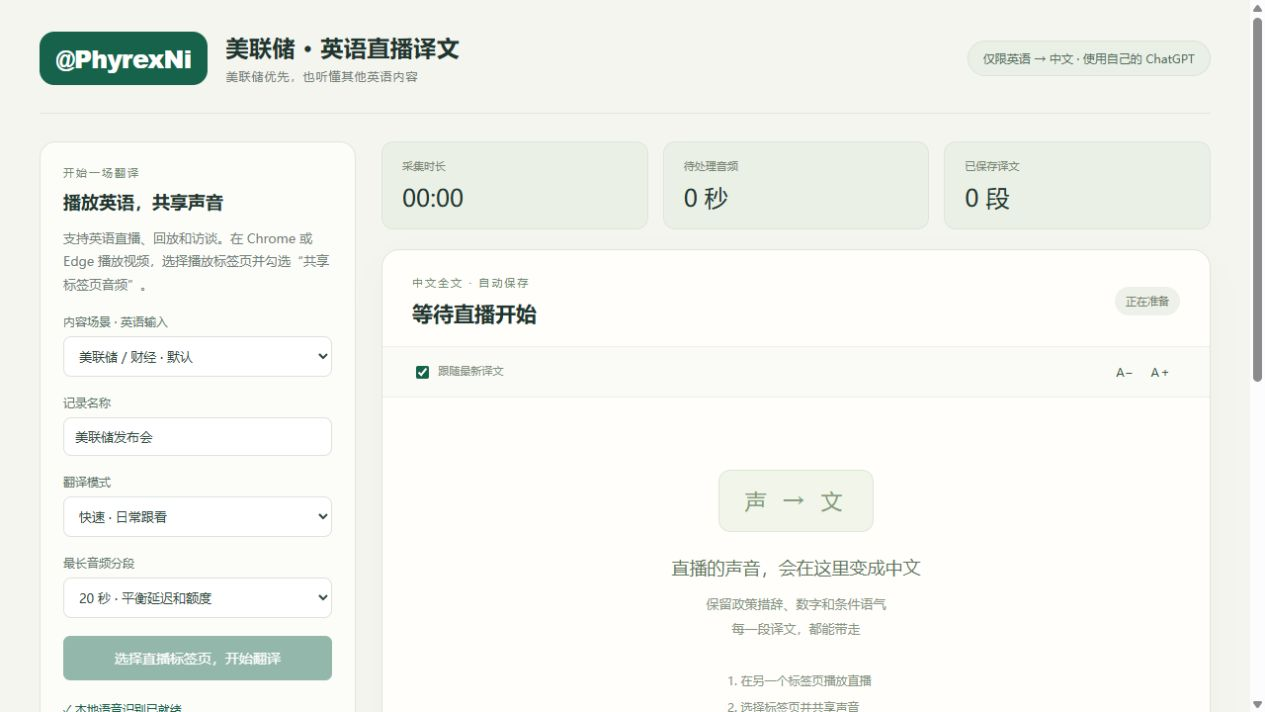
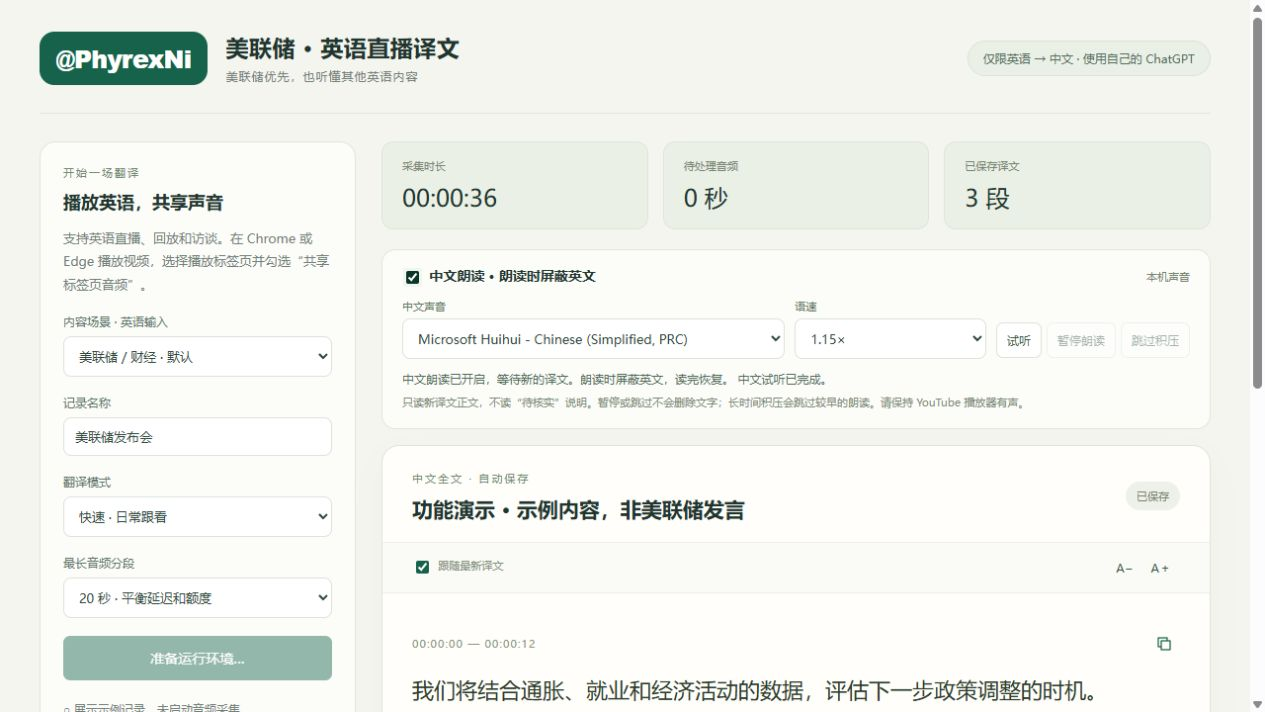
Publish 0.2.5 Chinese narration downloads, update guide and interface preview

diff --git a/docs/index.html b/docs/index.html
@@ -1,12 +1,14 @@
 <!doctype html>
 <html lang="zh-CN">
-<head><meta charset="utf-8"><meta name="viewport" content="width=device-width,initial-scale=1"><meta name="description" content="@PhyrexNi 美联储英语直播译文公开测试版：英语视频转中文，专业术语、逐段复制与文本导出。"><title>@PhyrexNi · 英语直播译文下载</title><link rel="stylesheet" href="style.css"><link rel="icon" href="mark.svg" type="image/svg+xml"></head>
+<head><meta charset="utf-8"><meta name="viewport" content="width=device-width,initial-scale=1"><meta name="description" content="@PhyrexNi 美联储英语直播译文公开测试版：英语视频转中文，专业术语、中文朗读、逐段复制与文本导出。"><title>@PhyrexNi · 英语直播译文下载</title><link rel="stylesheet" href="style.css"><link rel="icon" href="mark.svg" type="image/svg+xml"></head>
 <body><main>
 <header><a class="wordmark" href="./">@PhyrexNi</a><nav aria-label="导航"><a href="#install">安装说明</a><a href="privacy.html">隐私说明</a><a href="https://github.com/nisen0808-web/phyrex-english-translator/issues">测试反馈 ↗</a></nav></header>
-<section class="hero"><div class="eyebrow">WINDOWS + MAC · GITHUB 公开测试</div><h1>听英语直播，<br>看中文译文。</h1><p class="lead">美联储优先，也支持其他英语直播、回放和访谈。<br>用自己的 ChatGPT 账号，在本机保存中文记录。</p><div class="actions"><a class="primary" href="https://github.com/nisen0808-web/phyrex-english-translator/releases/download/v0.2.2-beta/Fed-English-Translator-0.2.2-beta-Windows-x64-Compact.7z">下载 Windows 测试包 <span>581 MB · 7z ↓</span></a><a class="primary" href="https://github.com/nisen0808-web/phyrex-english-translator/releases/download/v0.2.3-mac-beta/Fed-English-Translator-0.2.3-mac-beta-macOS-arm64.zip">下载 Mac · Apple 芯片 <span>M 系列 · ZIP ↓</span></a><a class="primary" href="https://github.com/nisen0808-web/phyrex-english-translator/releases/download/v0.2.3-mac-beta/Fed-English-Translator-0.2.3-mac-beta-macOS-x86_64.zip">下载 Mac · Intel <span>ZIP ↓</span></a></div><p class="requirements">Windows 10 / 11 x64，或 macOS 14+ · Chrome / Edge · 仅英语 → 中文<br>Mac 芯片可在苹果菜单“关于本机”查看。完整包内含本机组件，使用自己的 ChatGPT。尚未上架扩展商店。</p></section>
-<section class="features" aria-label="主要功能"><article><b>556</b><h2>专业术语</h2><p>覆盖美联储、宏观、金融、通胀和劳动力市场，可自行补充。</p></article><article><b>中文</b><h2>逐段复制</h2><p>每段单独复制译文，自动排除时间戳和“待核实”说明。</p></article><article><b>TXT / Word / SRT</b><h2>保存与导出</h2><p>中文记录自动保存在本机，可导出文稿和字幕。</p></article></section>
-<figure><img src="preview.png" alt="美联储英语直播译文测试版界面：左侧选择场景与翻译模式，右侧显示中文译文" width="1265" height="712"><figcaption>完整页面预览 · 也可从浏览器侧栏打开</figcaption></figure>
+<section class="hero"><div class="eyebrow">WINDOWS + MAC · GITHUB 公开测试</div><h1>听英语直播，<br>听中文译文。</h1><p class="lead">美联储优先，也支持其他英语直播、回放和访谈。<br>用自己的 ChatGPT 账号翻译，中文朗读时屏蔽英文外放。</p><div class="actions"><a class="primary" href="https://github.com/nisen0808-web/phyrex-english-translator/releases/download/v0.2.5-beta/Fed-English-Translator-0.2.5-beta-Windows-x64-Compact.7z">下载 Windows 测试包 <span>0.2.5 · 7z ↓</span></a><a class="primary" href="https://github.com/nisen0808-web/phyrex-english-translator/releases/download/v0.2.5-beta/Fed-English-Translator-0.2.5-beta-macOS-arm64.zip">下载 Mac · Apple 芯片 <span>0.2.5 · M 系列 ↓</span></a><a class="primary" href="https://github.com/nisen0808-web/phyrex-english-translator/releases/download/v0.2.5-beta/Fed-English-Translator-0.2.5-beta-macOS-x86_64.zip">下载 Mac · Intel <span>ZIP ↓</span></a></div><p class="requirements">Windows 10 / 11 x64，或 macOS 14+ · Chrome / Edge · 仅英语 → 中文<br>Mac 芯片可在苹果菜单“关于本机”查看。完整包内含本机组件，使用自己的 ChatGPT。尚未上架扩展商店。</p></section>
+<section class="features" aria-label="主要功能"><article><b>556</b><h2>专业术语</h2><p>覆盖美联储、宏观、金融、通胀和劳动力市场，可自行补充。</p></article><article><b>中文朗读</b><h2>读中文，暂时屏蔽英文</h2><p>本机中文声音，可调语速、暂停和跳过。每段仍可独立复制。</p></article><article><b>TXT / Word / SRT</b><h2>保存与导出</h2><p>中文记录自动保存在本机，可导出文稿和字幕。</p></article></section>
+<figure><img src="preview.png" alt="中文朗读功能演示：选择本机中文声音、语速、试听，右侧显示示例译文" width="1265" height="712"><figcaption>中文朗读界面预览 · 文中为功能演示示例，非美联储发言</figcaption></figure>
+<aside class="tip"><strong>已经安装旧版？约 20 KB 即可更新朗读</strong><p><a href="https://github.com/nisen0808-web/phyrex-english-translator/releases/download/v0.2.5-beta/PhyrexNi-Read-Aloud-0.2.5-Windows-Update.zip">Windows 0.2.2 更新包</a> · <a href="https://github.com/nisen0808-web/phyrex-english-translator/releases/download/v0.2.5-beta/PhyrexNi-Read-Aloud-0.2.5-Mac-Update.zip">Mac 0.2.3 更新包</a>。不能单独运行。结束采集并关闭页面，备份原 web 文件夹和 PRIVACY.md，再按包内说明替换；不改账号、记录和模型。</p></aside>
 <section id="install" class="section"><div class="eyebrow">首次使用</div><h2>安装一次，之后从扩展打开。</h2><ol class="steps"><li><strong>下载并完整解压</strong><p>Windows 使用支持 7z 的工具，例如 <a href="https://www.7-zip.org/">7-Zip</a>；Mac 双击 ZIP 解压。将整个目录放到固定位置，不要直接在压缩包里运行。</p></li><li><strong>连接本机组件</strong><p>Windows 双击 <code>Install-Connector.cmd</code>；Mac 双击 <code>Install-Connector.command</code>。只为当前用户注册本机连接。</p></li><li><strong>加载浏览器扩展</strong><p>Chrome 地址栏输入 <code>chrome://extensions</code>；Edge 输入 <code>edge://extensions</code>。打开“开发者模式”，选择“加载已解压的扩展程序”，选中解压目录里的 <code>extension</code> 文件夹。</p></li><li><strong>登录自己的 ChatGPT</strong><p>固定扩展并打开侧栏，点击登录，在 OpenAI 官方页面完成。模型权限和用量取决于你的账号。</p></li><li><strong>播放英语，共享标签页声音</strong><p>选择正在播放视频的标签页，并勾选“共享标签页音频”。结束时点“结束采集并保存”，等待译文完成后导出。</p></li></ol><aside class="tip"><strong>侧栏无法共享声音？</strong><p>点击“完整页面”，或运行 Windows 的 <code>Start.cmd</code> / Mac 的 <code>Start.command</code>。翻译期间保持采集页面打开。</p></aside><aside class="tip"><strong>Mac 首次打开</strong><p>Mac 包尚未经过 Apple 公证；如出现开发者验证提示，请核对来源并参阅 <a href="https://support.apple.com/102445">Apple 官方说明</a>，不要关闭系统安全防护。若系统请求录屏或音频权限，请为正在使用的浏览器授权。<a href="https://github.com/nisen0808-web/phyrex-english-translator/blob/main/mac/app/先读我-Mac.md">完整 Mac 安装说明 ↗</a></p></aside></section>
-<section class="section"><div class="eyebrow">测试前了解</div><h2>本轮重点：安装、连接和连续翻译。</h2><p>Windows 包已做文件核对和本地识别检查。Mac 包分别在 Apple 芯片和 Intel 的原生环境中完成组件运行、合成英语识别、账号隔离和重新解压后的检查。不同电脑的浏览器安装、系统授权、首次登录和长时间真实直播仍需试用反馈。</p><p>译文有分段等待，数字和政策措辞可能存在识别错误。标记“待核实”的内容请结合原音判断。声音在本机识别，识别后的英文与相关上下文会发送给 OpenAI 翻译。</p><a href="https://github.com/nisen0808-web/phyrex-english-translator/blob/main/VERIFICATION.md">查看完整验证范围 ↗</a><details><summary>版本附件与 SHA-256 校验</summary><p><a href="https://github.com/nisen0808-web/phyrex-english-translator/releases/tag/v0.2.2-beta">Windows 版本附件</a> · <a href="https://github.com/nisen0808-web/phyrex-english-translator/releases/tag/v0.2.3-mac-beta">Mac 版本附件与校验值</a>。请下载完整测试包；“Source code”不包含运行组件与语音模型。下方为 Windows 包的校验值。</p><code class="hash">24b3c081b4fb9e01a7006493429c02193f4aeb9ade939901592e2be13b775725</code></details></section>
+<section class="section"><div class="eyebrow">可选功能 · 默认关闭</div><h2>先试听，再开始中文朗读。</h2><ol class="steps"><li><strong>采集前勾选中文朗读</strong><p>选择本机中文声音和语速，点击试听。没有中文声音时，可先安装系统中文语音；文字翻译仍可使用。</p></li><li><strong>保持 YouTube 音量开启</strong><p>共享播放标签页的音频。中文朗读时屏蔽英文外放，读完或暂停后恢复，英文识别继续进行。</p></li><li><strong>只读新的中文正文</strong><p>不读时间戳、核实说明或历史记录。积压过多会跳过较早的朗读，文字仍保留。朗读使用本机语音，不增加配音 API 或 Codex 请求。</p></li></ol><p>中文需要等待识别与翻译，不是零延迟同传。不同浏览器和系统声音表现仍需公开测试。</p></section>
+<section class="section"><div class="eyebrow">测试前了解</div><h2>本轮重点：中文声音与直播衔接。</h2><p>Windows 包已做文件核对和本地识别检查。Mac 包分别在 Apple 芯片和 Intel 的原生环境中完成组件运行、合成英语识别、账号隔离和重新解压后的检查。新增朗读逻辑有 13 项自动检查，Windows 浏览器试听与音轨分离已检查；Mac 浏览器朗读、不同系统中文声音、音频共享及长时间真实直播仍需试用反馈。</p><p>译文有分段等待，数字和政策措辞可能存在识别错误。标记“待核实”的内容请结合原音判断。声音在本机识别，识别后的英文与相关上下文会发送给 OpenAI 翻译。</p><a href="https://github.com/nisen0808-web/phyrex-english-translator/blob/main/VERIFICATION.md">查看完整验证范围 ↗</a><details><summary>版本附件与 SHA-256 校验</summary><p><a href="https://github.com/nisen0808-web/phyrex-english-translator/releases/tag/v0.2.5-beta">0.2.5-beta 全部下载、检查结果与 SHA-256</a>。请下载完整测试包；已有旧版可选轻量更新。Source code 不包含运行组件与语音模型。旧版本仍保留在 Releases 中。</p></details></section>
 <footer><span>@PhyrexNi · 英语直播译文</span><a href="privacy.html">隐私与数据处理</a><a href="https://github.com/nisen0808-web/phyrex-english-translator">GitHub 项目 ↗</a></footer>
 </main></body></html>

diff --git a/README.md b/README.md
@@ -2,80 +2,90 @@
 
 把英语直播、回放和访谈翻译成中文。优先支持美联储与宏观财经内容，也可选择通用英语场景。
 
-**Windows 10/11 x64（0.2.2-beta）与 macOS 14+（0.2.3-mac-beta） · Chrome / Edge · 仅英语 → 中文**
+**0.2.5-beta · Windows 10/11 x64 / macOS 14+ · Chrome / Edge · 仅英语 → 中文**
+
+新增可选中文朗读：中文播放时屏蔽英文外放，读完恢复。识别用的英文音轨继续采集，中文文字照常保存。
 
 ## 下载
 
-[**下载 Windows 完整测试包 · 581 MB（7z）**](https://github.com/nisen0808-web/phyrex-english-translator/releases/download/v0.2.2-beta/Fed-English-Translator-0.2.2-beta-Windows-x64-Compact.7z)
+- [Windows 完整包 · 7z](https://github.com/nisen0808-web/phyrex-english-translator/releases/download/v0.2.5-beta/Fed-English-Translator-0.2.5-beta-Windows-x64-Compact.7z)
+- [Mac 完整包 · Apple 芯片（M 系列）](https://github.com/nisen0808-web/phyrex-english-translator/releases/download/v0.2.5-beta/Fed-English-Translator-0.2.5-beta-macOS-arm64.zip)
+- [Mac 完整包 · Intel](https://github.com/nisen0808-web/phyrex-english-translator/releases/download/v0.2.5-beta/Fed-English-Translator-0.2.5-beta-macOS-x86_64.zip)
 
-[**下载 Mac · Apple 芯片（M 系列）· ZIP**](https://github.com/nisen0808-web/phyrex-english-translator/releases/download/v0.2.3-mac-beta/Fed-English-Translator-0.2.3-mac-beta-macOS-arm64.zip)
+已安装 Windows 0.2.2-beta / Mac 0.2.3-mac-beta 的用户可选择约 **20 KB** 的轻量更新，无需重新下载语音模型：
 
-[**下载 Mac · Intel · ZIP**](https://github.com/nisen0808-web/phyrex-english-translator/releases/download/v0.2.3-mac-beta/Fed-English-Translator-0.2.3-mac-beta-macOS-x86_64.zip)
+- [Windows 中文朗读更新包](https://github.com/nisen0808-web/phyrex-english-translator/releases/download/v0.2.5-beta/PhyrexNi-Read-Aloud-0.2.5-Windows-Update.zip)
+- [Mac 中文朗读更新包](https://github.com/nisen0808-web/phyrex-english-translator/releases/download/v0.2.5-beta/PhyrexNi-Read-Aloud-0.2.5-Mac-Update.zip)
 
-[Mac 版本与校验值](https://github.com/nisen0808-web/phyrex-english-translator/releases/tag/v0.2.3-mac-beta) · [Windows 版本与全部附件](https://github.com/nisen0808-web/phyrex-english-translator/releases/tag/v0.2.2-beta) · [安装与下载页面](https://nisen0808-web.github.io/phyrex-english-translator/) · [隐私说明](docs/privacy.html)
+更新包不能单独运行。结束采集并关闭页面，备份原 `web` 文件夹和 `PRIVACY.md`，再按包内说明替换文件。不要删除 `user-data`；账号、记录、词库及语音模型仍保留。轻量更新后后台版本号仍显示原版本。
 
-请下载上面的完整测试包。GitHub 自动提供的 **Source code** 压缩包不包含语音模型与本机运行组件。
+[版本说明、完整附件与 SHA-256](https://github.com/nisen0808-web/phyrex-english-translator/releases/tag/v0.2.5-beta) · [安装与下载页面](https://nisen0808-web.github.io/phyrex-english-translator/) · [隐私说明](docs/privacy.html)
+
+首次使用请选择完整包。GitHub 自动提供的 **Source code** 不包含语音模型与本机运行组件。
 
 ## 首次使用
 
 ### Windows
 
-1. 使用支持 7z 的解压工具（例如 [7-Zip](https://www.7-zip.org/)），把**整个压缩包**解压到一个固定文件夹。
-2. 双击解压目录中的 `Install-Connector.cmd`，为当前 Windows 用户安装本机连接。
+1. 使用支持 7z 的解压工具（例如 [7-Zip](https://www.7-zip.org/)），把整个完整包解压到固定文件夹。
+2. 双击 `Install-Connector.cmd`，为当前 Windows 用户安装本机连接。
 3. 在 Chrome 打开 `chrome://extensions`，或在 Edge 打开 `edge://extensions`。
-4. 打开“开发者模式”，点击“加载已解压的扩展程序”，选择解压目录里的 **extension** 文件夹。
-5. 固定“PhyrexNi · 美联储英语直播译文”，点击扩展打开侧栏。首次使用需登录**自己的、支持 Codex 的 ChatGPT 账号**。
-6. 在另一个标签页播放英语视频，点击“选择直播标签页，开始翻译”，选中播放页面并勾选“共享标签页音频”。
+4. 打开“开发者模式”，点击“加载已解压的扩展程序”，选择包内的 **extension** 文件夹。
+5. 固定扩展，点击打开侧栏，登录自己的、支持 Codex 的 ChatGPT 账号。
+6. 播放英语视频，点击“选择直播标签页，开始翻译”，选择播放页面并勾选共享标签页音频。
 
-如果侧栏无法共享声音，请点击“完整页面”，或者双击解压目录中的 `Start.cmd`，在完整页面里选择视频标签页。
-
-翻译期间保持采集页面打开。结束时点“结束采集并保存”，等处理完成后导出。暂时不用时，可运行 `Stop.cmd`。
+侧栏无法共享声音时，点击“完整页面”，或运行 `Start.cmd`。翻译期间保持采集页面打开。结束时点“结束采集并保存”，等待文字处理完成后导出。用完可运行 `Stop.cmd`。
 
 ### Mac
 
 在苹果菜单“关于本机”查看芯片，下载对应的完整 ZIP，双击解压到固定文件夹。
 
 1. 双击 `Install-Connector.command`，为当前用户注册本机连接。
-2. Chrome / Edge 扩展管理页开启开发者模式，加载包内的 `extension` 文件夹。
+2. Chrome / Edge 扩展管理页开启开发者模式，加载包内的 **extension** 文件夹。
 3. 打开扩展并登录自己的 ChatGPT，然后选择播放英语视频的标签页并勾选共享音频。
 4. 侧栏无法采集时，点击“完整页面”或运行 `Start.command`；用完运行 `Stop.command`。
 
 Mac 包尚未经过 Apple 公证，首次打开可能出现开发者验证提示；请参阅 [Apple 官方说明](https://support.apple.com/102445)，不要关闭系统安全防护。系统要求录屏/音频权限时，请为正在使用的浏览器授权。[详细 Mac 安装说明](mac/app/先读我-Mac.md)
 
+## 开启中文朗读
+
+1. 在开始采集前勾选“中文朗读 · 朗读时屏蔽英文”。
+2. 选择本机中文声音和语速，点击“试听”。
+3. 保持 YouTube 音量开启，正常共享播放标签页的音频。
+
+只朗读本次采集的新中文正文，不读时间戳和“待核实”说明，也不重读历史记录。暂停朗读会恢复英文；继续后只读新译文。积压过多会跳过较早的朗读，文字不会删除。
+
+朗读使用本机中文语音，不增加配音 API 或 Codex 请求。未安装中文声音时，文字翻译仍可使用。中文存在分段、识别和翻译延迟，并非零延迟同传。[完整朗读说明](READ_ALOUD.md)
+
 ## 能做什么
 
 - 英语直播、回放、访谈和课程转中文；支持美联储 / 财经及通用英语两种场景。
 - 内置 **556 条**美联储、通胀、劳动力市场、增长、金融、流动性、银行信用及数据口径术语，可编辑至 1000 条。
-- 每一段有独立复制图标；带“待核实”的段落也能复制，复制内容不含时间戳和核实说明。
+- 每段有独立复制图标；带“待核实”的段落也能复制，只复制正文。
 - 中文记录自动保存在本机，支持 TXT、Word 和 SRT 导出。
+- 可选中文朗读、声音与语速选择、暂停及跳过；朗读时屏蔽英文外放。
 - 声音在本机识别，识别后的英文、短上下文与相关术语由官方 Codex 发送给 OpenAI 翻译，使用用户自己的账号额度。
 
-## 这轮测试的范围
+## 测试范围
 
-这是 **GitHub 公开测试版，尚未上架 Chrome / Edge 商店**。需要浏览器扩展配合本机组件，不能只装扩展。
+这是 GitHub 公开测试版，尚未上架 Chrome / Edge 商店。需要浏览器扩展配合本机组件。Grok 接入尚未发布。
 
-已经检查包内运行环境、本地语音模型、术语匹配、导出和新用户账号隔离。高压缩包解压后的 **3159 个文件与原始 ZIP 逐项一致**，并通过一段真实美联储音频的本地识别测试。
+三个系统完整包在发布流程中通过组件运行、独立账号、页面服务和重新解压检查，朗读逻辑有 13 项自动检查。Windows 浏览器本机试听与 Web Audio 音轨分离也已检查。真实 YouTube 长时间直播、用户电脑的中文声音、Mac 浏览器朗读与物理扬声器效果仍需试用。
 
-Mac 的两种芯片分别在原生 Mac 环境中做组件运行、合成英语识别、账号隔离和 ZIP 解压到新路径后的检查；这不等于完成真实直播测试。
-
-不同电脑上的完整扩展安装、首次 ChatGPT 登录，以及长时间真实直播采集仍需要本轮用户测试。翻译有分段和处理延迟，准确率并非保证；数字、否定语气和专有名词出现“待核实”时，请结合原音判断。[完整验证范围](VERIFICATION.md)
+数字、否定语气和专有名词出现“待核实”时，请结合原音判断。[完整验证范围](VERIFICATION.md)
 
 ## 反馈问题
 
-[提交测试反馈](https://github.com/nisen0808-web/phyrex-english-translator/issues/new?template=bug_report.yml)。请说明 Windows / macOS 版本、Mac 芯片类型与浏览器版本、操作步骤、错误文字和大致发生时间。可选填公开视频链接与时间位置。
+[提交测试反馈](https://github.com/nisen0808-web/phyrex-english-translator/issues/new?template=bug_report.yml)。请说明操作系统、Mac 芯片类型、浏览器版本、所选中文声音、操作步骤和错误文字。可选填公开视频链接与时间位置。
 
-不要在公开反馈里附带登录凭据、Cookie、API 密钥、整个 `user-data` 文件夹或未经处理的私人内容。
+不要公开登录凭据、Cookie、API 密钥、整个 `user-data` 文件夹或未经处理的私人内容。
 
-## 记录与卸载
+## 升级、记录与卸载
 
-中文记录和自定义术语位于解压目录的 `user-data`，官方 Codex 登录凭据位于 `user-data/account`。本工具不持久保存原始音频或英语逐字稿。
+完整包升级：先结束翻译并停止旧组件，把新版解压到新目录。需要迁移时，自行复制旧目录的 `user-data` 到新目录，再注册新版本机组件并重新加载新版扩展。也可按上面的轻量更新说明保留原目录。
 
-Windows 先运行 `Stop.cmd`，再运行 `Uninstall-Connector.cmd`；Mac 对应为 `Stop.command` 和 `Uninstall-Connector.command`，可移除本机连接注册；账号和记录会保留，需要删除时由用户自行管理 `user-data`。转发时请使用 Releases 中的原始干净压缩包。
+中文记录和自定义术语位于 `user-data`，官方 Codex 登录凭据位于 `user-data/account`。本工具不持久保存原始音频或英语逐字稿。
 
-## 文件校验
-
-文件：`Fed-English-Translator-0.2.2-beta-Windows-x64-Compact.7z`  
-字节数：`581253142`  
[1 lines of base64/hex data omitted]
+Windows 先运行 `Stop.cmd`，再运行 `Uninstall-Connector.cmd`；Mac 对应为 `Stop.command` 和 `Uninstall-Connector.command`。卸载连接注册后，账号和记录仍保留，由用户自行管理。转发时请使用 Releases 中的原始干净压缩包。
 
 第三方组件及许可随完整包保留，见 [第三方说明](THIRD_PARTY_NOTICES.md)。本工具由 @PhyrexNi 发布，与 YouTube、Google、Microsoft、OpenAI 及美联储无官方隶属或认可关系。

diff --git a/VERIFICATION.md b/VERIFICATION.md
@@ -1,3 +1,15 @@
+# 0.2.5-beta 中文朗读验证范围
+
+2026-09-30：三个系统完整包由同一发布流程构建。每包的组件运行、账号隔离、本机页面、重新解压检查结果均随 [0.2.5-beta 版本附件](https://github.com/nisen0808-web/phyrex-english-translator/releases/tag/v0.2.5-beta) 提供。
+
+- 13 项朗读行为检查覆盖默认关闭、本机中文声音筛选、只读正文、去重、顺序、暂停、积压、长段拆分、结束与超时恢复，以及外放与识别分离。各系统包直接从其打包网页代码提取模块执行检查。
+- Windows 浏览器检测到本机中文声音并完成试听；真实 Web Audio / AudioWorklet 的离线管线检查确认外放关闭时仍接收完整采样，恢复后外放有声。
+- 不增加扩展权限，不添加云端配音请求。包内账号隔离、556 条词库和中文记录/导出设计保留。
+- Mac 原生构建检查能够验证组件及脚本，不能验证浏览器物理朗读。真实 YouTube 共享窗口、系统声音安装、物理扬声器和长时间直播仍需公开测试。
+- 本次未新增杀毒认证，也未完成 Apple 公证。下面历史扫描/验证只适用于对应旧版本。
+
+---
+
 # Windows 与 Mac 测试分发包：验证范围
 
 验证日期：2026-09-29。Windows 为 0.2.2-beta，Mac 为 0.2.3-mac-beta。均为 GitHub 公开测试版，尚未提交 Chrome/Edge 商店。
